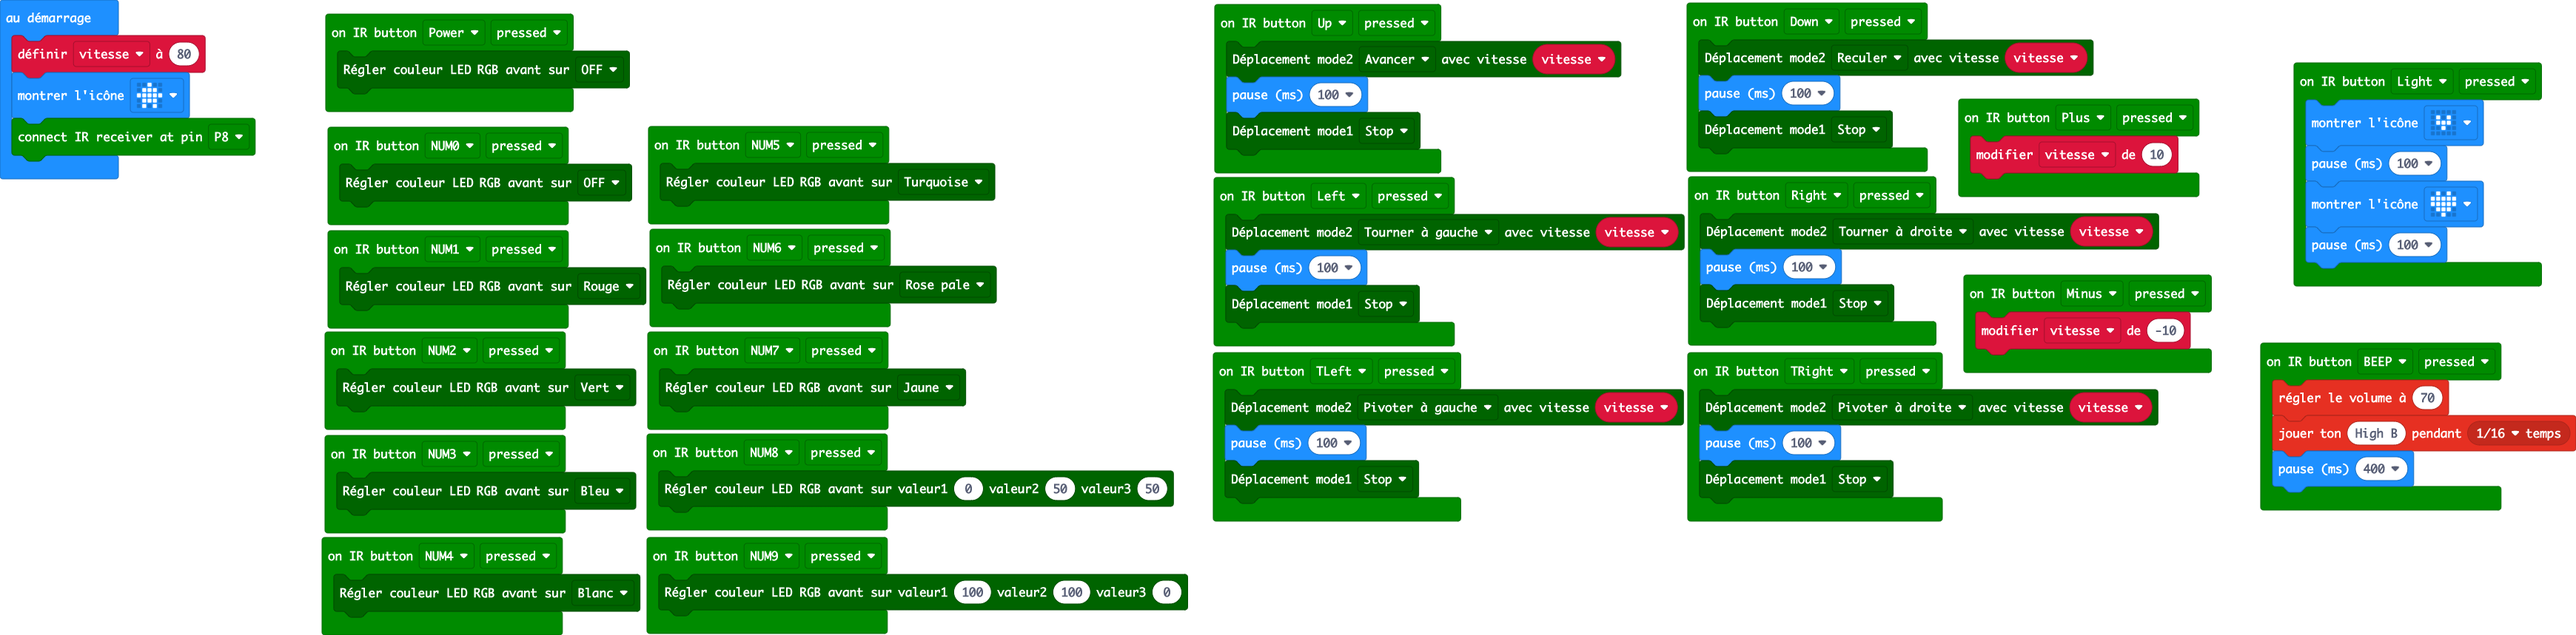
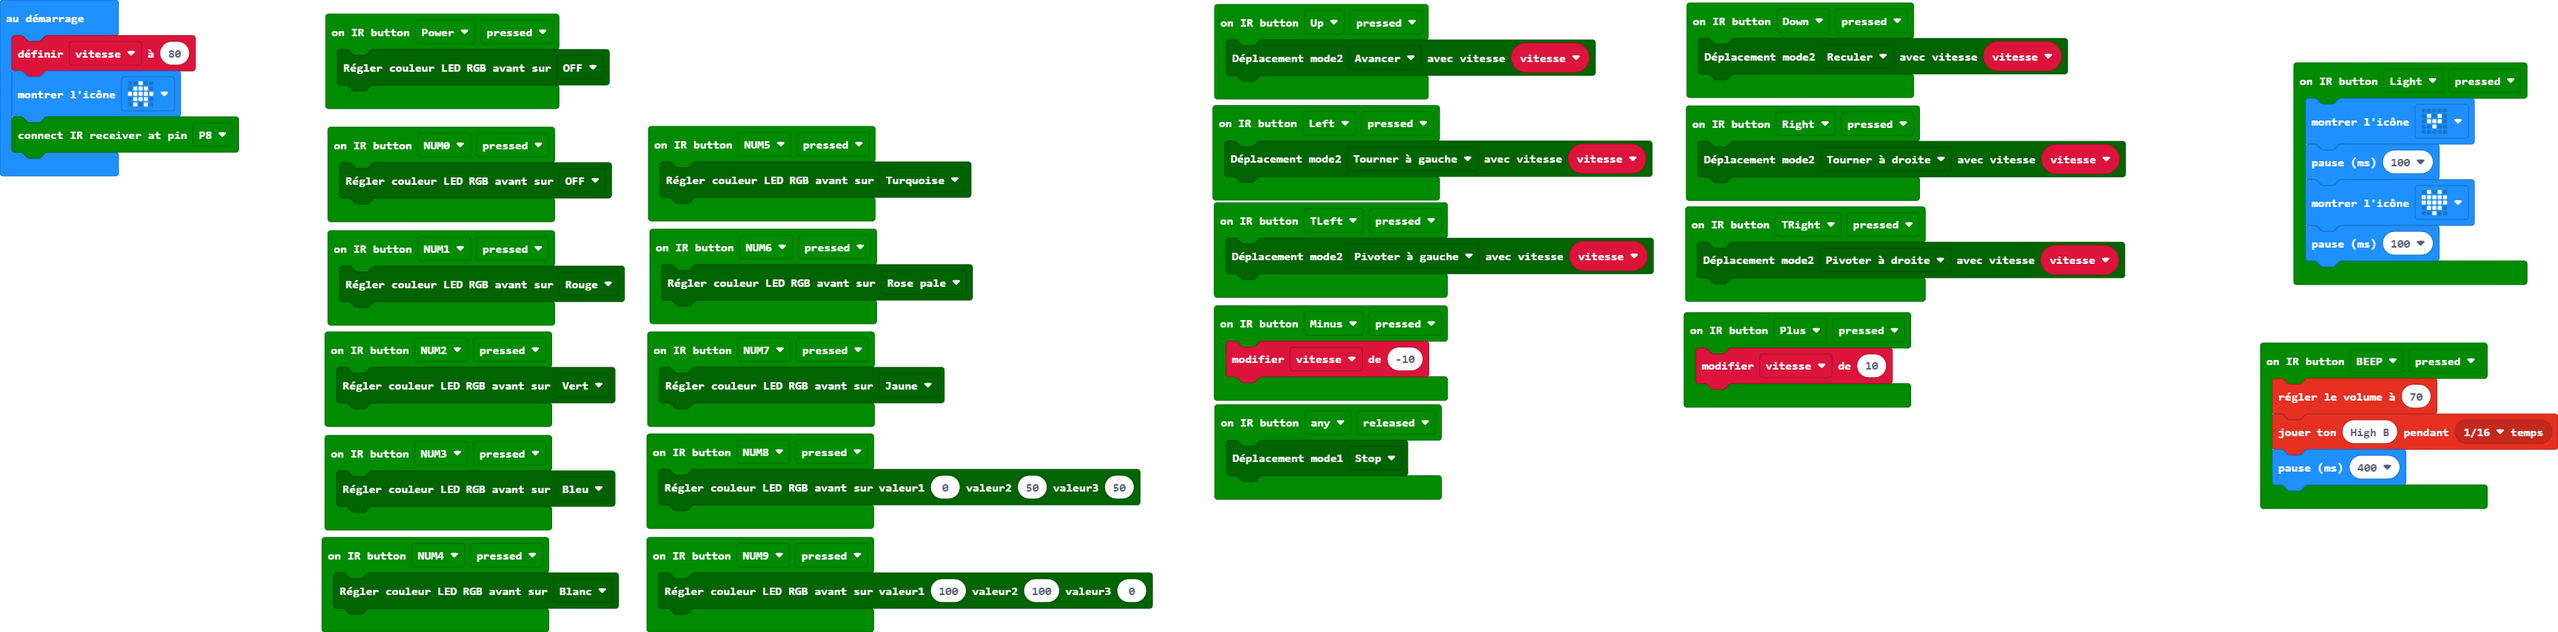
Mise à jour main.blocks, main.ts

diff --git a/main.ts b/main.ts
@@ -9,7 +9,8 @@ makerbit.onIrButton(IrButton.NUM3, IrButtonAction.Pressed, function () {
 })
 makerbit.onIrButton(IrButton.TLeft, IrButtonAction.Pressed, function () {
     Tinybit.CarCtrlSpeed(Tinybit.CarState.Car_SpinLeft, vitesse)
-    basic.pause(100)
+})
+makerbit.onIrButton(IrButton.Any, IrButtonAction.Released, function () {
     Tinybit.CarCtrl(Tinybit.CarState.Car_Stop)
 })
 makerbit.onIrButton(IrButton.Light, IrButtonAction.Pressed, function () {
@@ -26,21 +27,15 @@ makerbit.onIrButton(IrButton.NUM7, IrButtonAction.Pressed, function () {
 })
 makerbit.onIrButton(IrButton.Right, IrButtonAction.Pressed, function () {
     Tinybit.CarCtrlSpeed(Tinybit.CarState.Car_Right, vitesse)
-    basic.pause(100)
-    Tinybit.CarCtrl(Tinybit.CarState.Car_Stop)
 })
 makerbit.onIrButton(IrButton.Left, IrButtonAction.Pressed, function () {
     Tinybit.CarCtrlSpeed(Tinybit.CarState.Car_Left, vitesse)
-    basic.pause(100)
-    Tinybit.CarCtrl(Tinybit.CarState.Car_Stop)
 })
 makerbit.onIrButton(IrButton.Minus, IrButtonAction.Pressed, function () {
     vitesse += -10
 })
 makerbit.onIrButton(IrButton.Down, IrButtonAction.Pressed, function () {
     Tinybit.CarCtrlSpeed(Tinybit.CarState.Car_Back, vitesse)
-    basic.pause(100)
-    Tinybit.CarCtrl(Tinybit.CarState.Car_Stop)
 })
 makerbit.onIrButton(IrButton.NUM4, IrButtonAction.Pressed, function () {
     Tinybit.RGB_Car_Big(Tinybit.enColor.White)
@@ -50,8 +45,6 @@ makerbit.onIrButton(IrButton.NUM2, IrButtonAction.Pressed, function () {
 })
 makerbit.onIrButton(IrButton.Up, IrButtonAction.Pressed, function () {
     Tinybit.CarCtrlSpeed(Tinybit.CarState.Car_Run, vitesse)
-    basic.pause(100)
-    Tinybit.CarCtrl(Tinybit.CarState.Car_Stop)
 })
 makerbit.onIrButton(IrButton.NUM5, IrButtonAction.Pressed, function () {
     Tinybit.RGB_Car_Big(Tinybit.enColor.Cyan)
@@ -72,8 +65,6 @@ makerbit.onIrButton(IrButton.BEEP, IrButtonAction.Pressed, function () {
 })
 makerbit.onIrButton(IrButton.TRight, IrButtonAction.Pressed, function () {
     Tinybit.CarCtrlSpeed(Tinybit.CarState.Car_SpinRight, vitesse)
-    basic.pause(100)
-    Tinybit.CarCtrl(Tinybit.CarState.Car_Stop)
 })
 makerbit.onIrButton(IrButton.Plus, IrButtonAction.Pressed, function () {
     vitesse += 10
